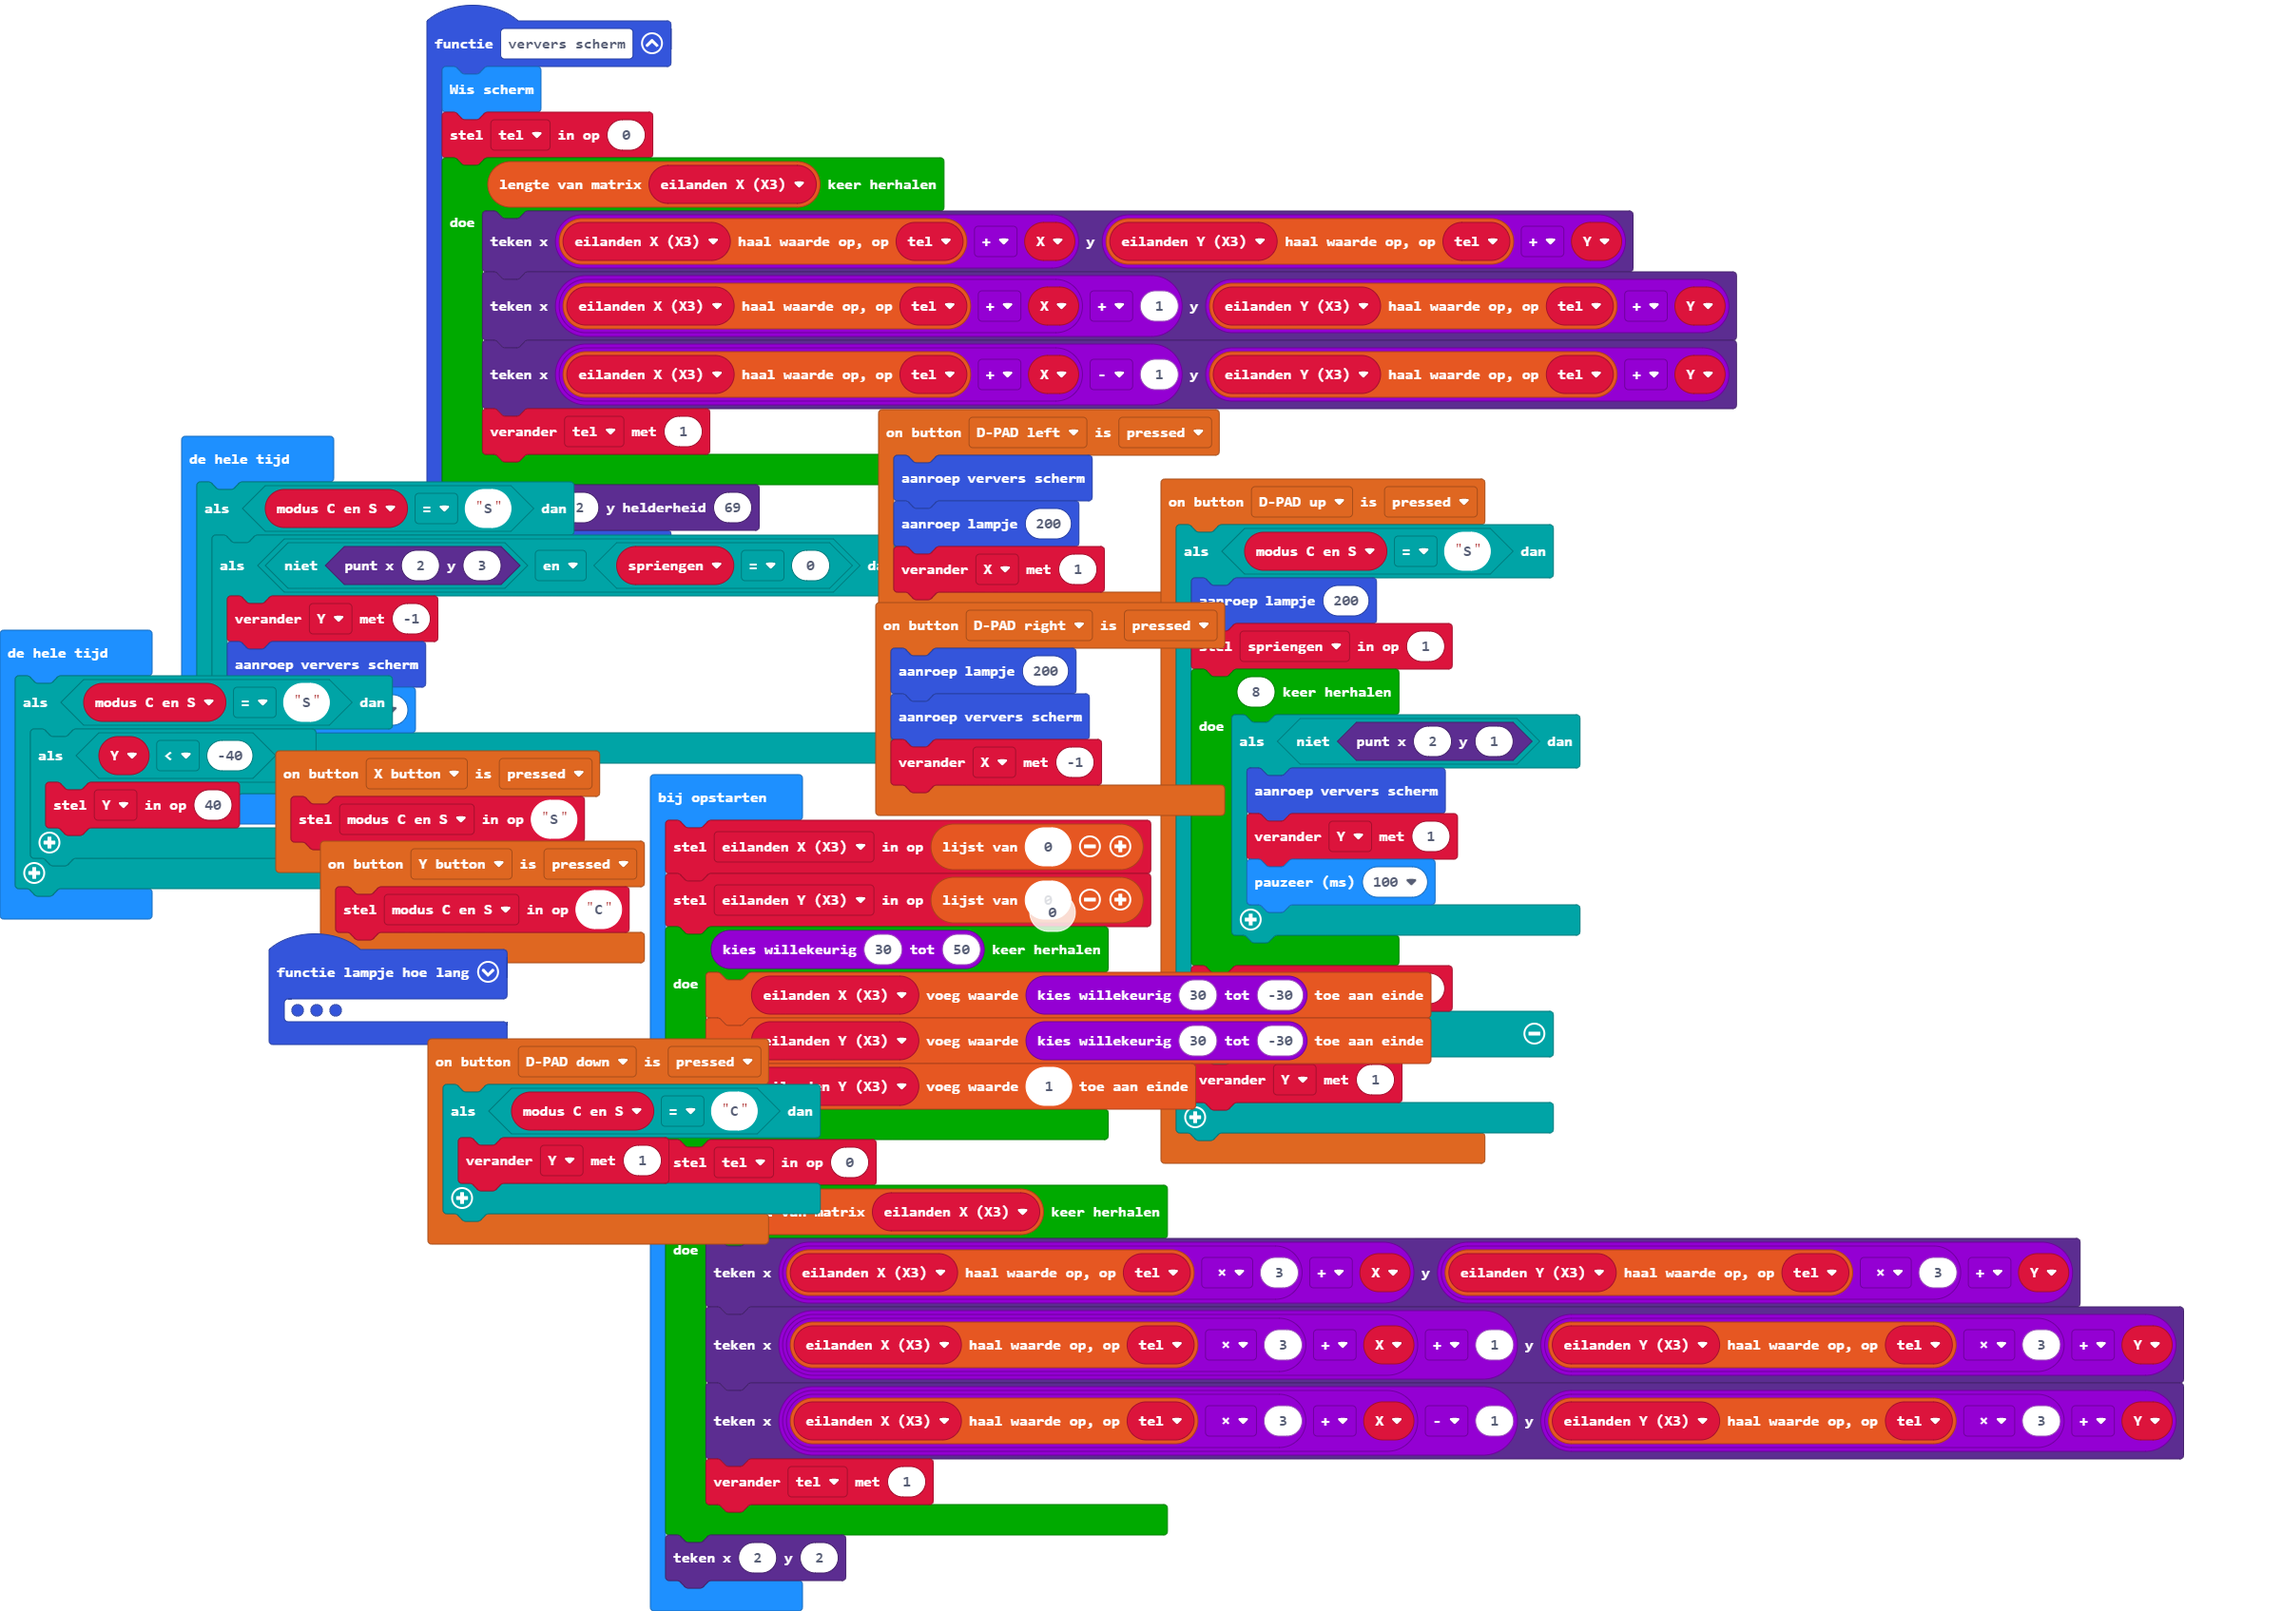
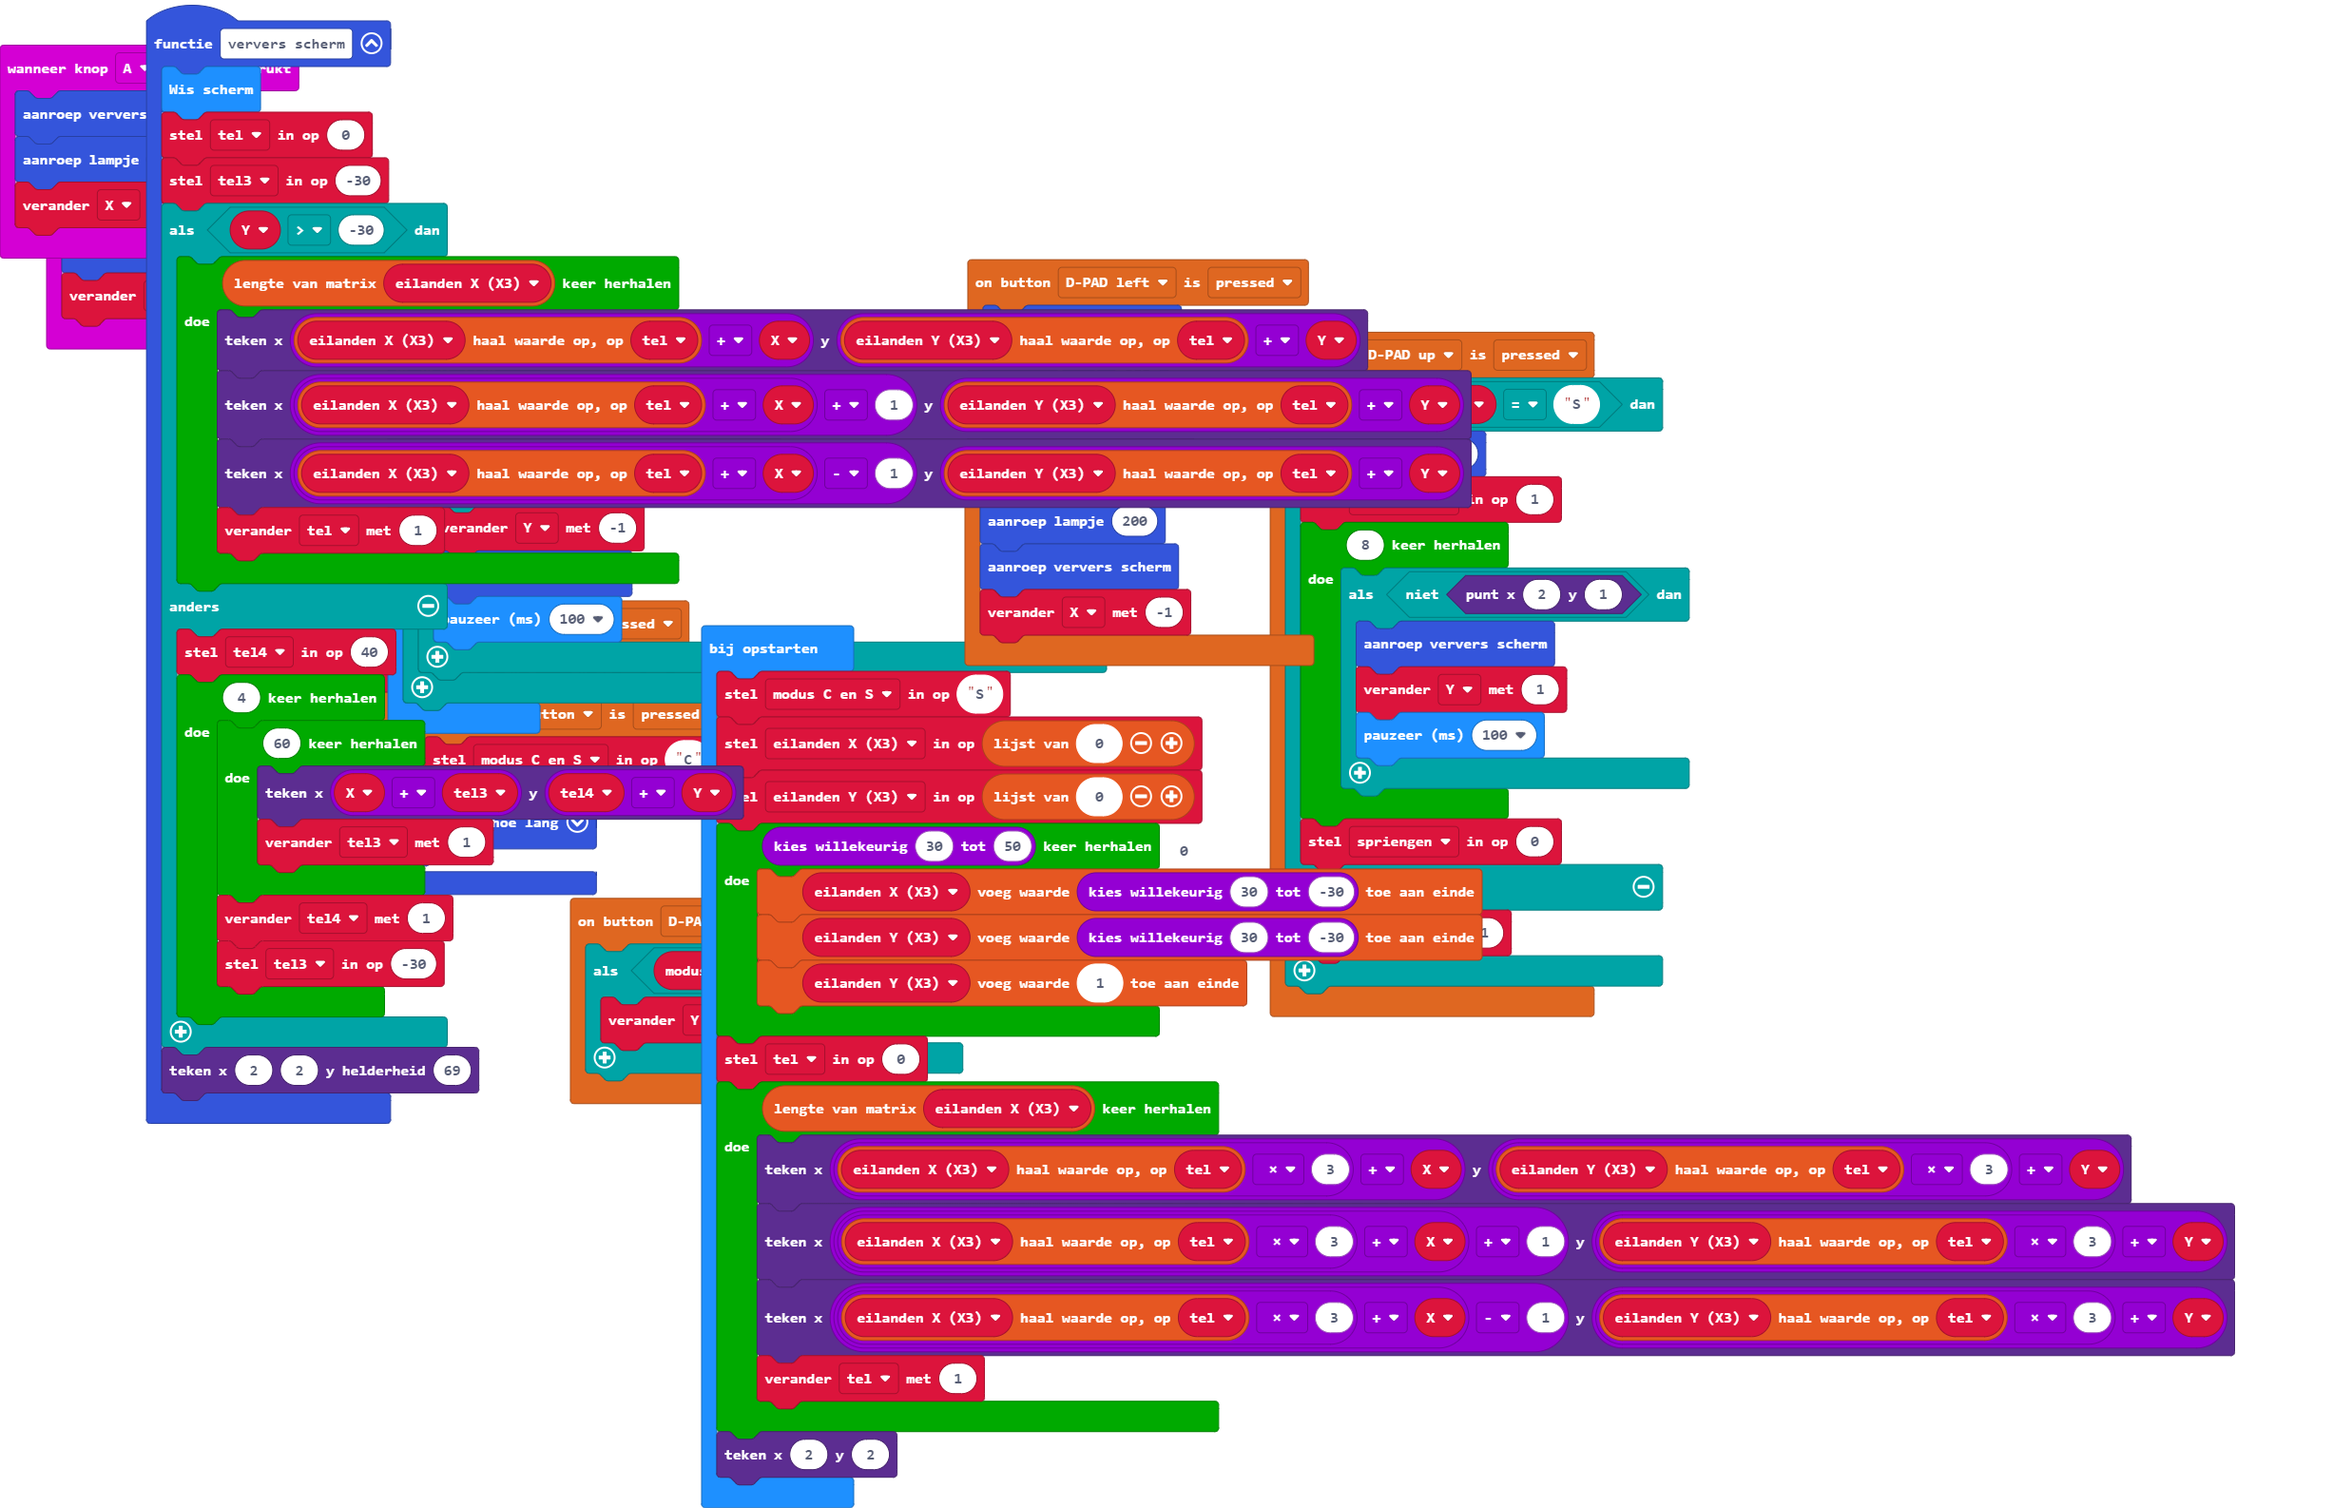
Update main.blocks, main.ts

diff --git a/main.ts b/main.ts
@@ -1,15 +1,33 @@
 function ververs_scherm () {
     basic.clearScreen()
     tel = 0
-    for (let index = 0; index < eilanden_X_X3.length; index++) {
-        led.plot(eilanden_X_X3[tel] + X, eilanden_Y_X3[tel] + Y)
-        led.plot(eilanden_X_X3[tel] + X + 1, eilanden_Y_X3[tel] + Y)
-        led.plot(eilanden_X_X3[tel] + X - 1, eilanden_Y_X3[tel] + Y)
-        tel += 1
+    tel3 = -30
+    if (Y > -30) {
+        for (let index = 0; index < eilanden_X_X3.length; index++) {
+            led.plot(eilanden_X_X3[tel] + X, eilanden_Y_X3[tel] + Y)
+            led.plot(eilanden_X_X3[tel] + X + 1, eilanden_Y_X3[tel] + Y)
+            led.plot(eilanden_X_X3[tel] + X - 1, eilanden_Y_X3[tel] + Y)
+            tel += 1
+        }
+    } else {
+        tel4 = 40
+        for (let index = 0; index < 4; index++) {
+            for (let index = 0; index < 60; index++) {
+                led.plot(X + tel3, tel4 + Y)
+                tel3 += 1
+            }
+            tel4 += 1
+            tel3 = -30
+        }
     }
     led.plotBrightness(2, 2, 69)
 }
 gamePad.onEvent(GamerBitPin.P14, GamerBitEvent.Down, function () {
+    ververs_scherm()
+    lampje(200)
+    X += 1
+})
+input.onButtonPressed(Button.A, function () {
     ververs_scherm()
     lampje(200)
     X += 1
@@ -48,16 +66,24 @@ gamePad.onEvent(GamerBitPin.P8, GamerBitEvent.Down, function () {
 gamePad.onEvent(GamerBitPin.P1, GamerBitEvent.Down, function () {
     modus_C_en_S = "S"
 })
+input.onButtonPressed(Button.B, function () {
+    lampje(200)
+    ververs_scherm()
+    X += -1
+})
 gamePad.onEvent(GamerBitPin.P2, GamerBitEvent.Down, function () {
     modus_C_en_S = "C"
 })
 let spriengen = 0
-let modus_C_en_S = ""
+let tel4 = 0
+let tel3 = 0
 let Y = 0
 let X = 0
 let tel = 0
 let eilanden_Y_X3: number[] = []
 let eilanden_X_X3: number[] = []
+let modus_C_en_S = ""
+modus_C_en_S = "S"
 eilanden_X_X3 = [0]
 eilanden_Y_X3 = [0]
 for (let index = 0; index < randint(30, 50); index++) {
@@ -79,13 +105,6 @@ basic.forever(function () {
             Y += -1
             ververs_scherm()
             basic.pause(100)
-        }
-    }
-})
-basic.forever(function () {
-    if (modus_C_en_S == "S") {
-        if (Y < -40) {
-            Y = 40
         }
     }
 })
